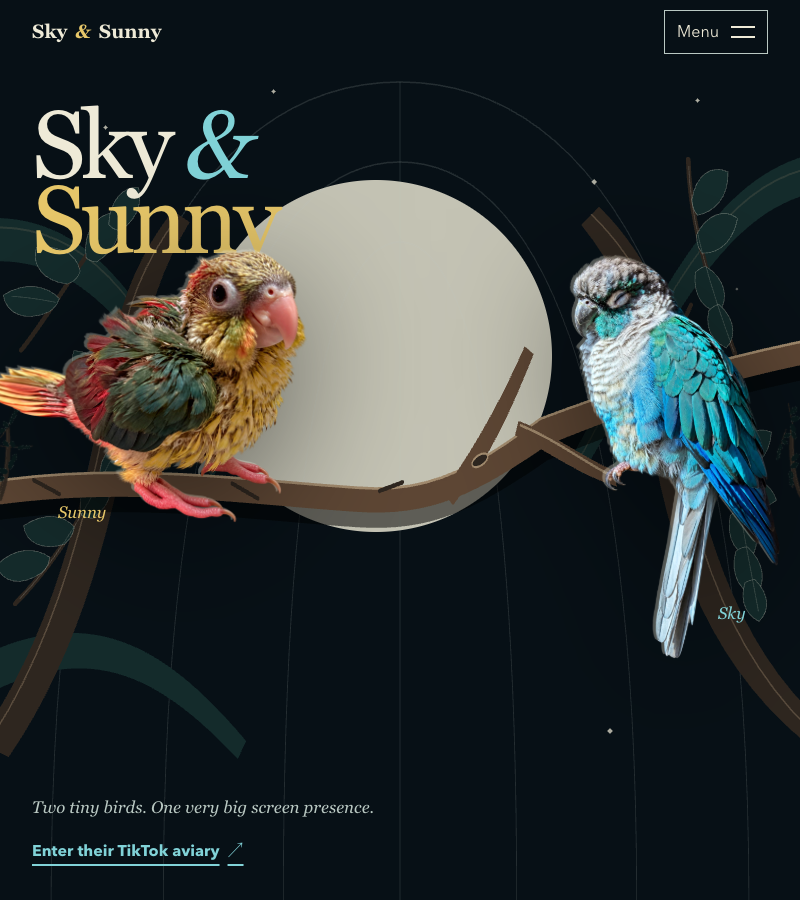
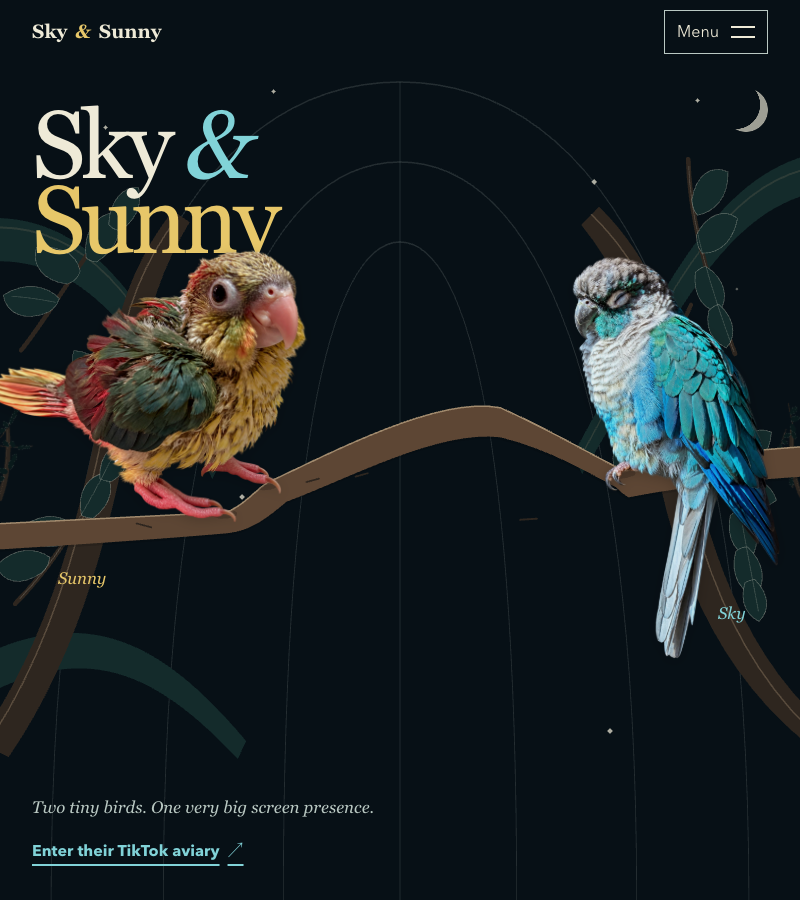
Hide the final hero support seam

diff --git a/index.html b/index.html
@@ -110,9 +110,12 @@
           <figure class="resident resident-sunny" data-face="sunny">
             <svg class="resident-support shared-perch" data-support-svg="sunny" viewBox="0 0 1366 1152" aria-hidden="true" focusable="false">
               <defs><clipPath id="sunny-support-clip" clipPathUnits="userSpaceOnUse"><path d="M-2200 1280C-1200 1200 -300 1160 980 1095C1040 1080 1100 1010 1150 975C1420 850 1850 620 2100 670C2300 760 2450 850 2600 926L2600 1010C2450 930 2300 840 2100 790C1850 760 1500 950 1230 1052C1160 1110 1090 1170 990 1180C300 1240 -900 1300 -2200 1380Z"></path></clipPath></defs>
-              <path class="support-shadow" transform="translate(-5 10)" d="M-2200 1280C-1200 1200 -300 1160 980 1095C1040 1080 1100 1010 1150 975C1420 850 1850 620 2100 670C2300 760 2450 850 2600 926L2600 1010C2450 930 2300 840 2100 790C1850 760 1500 950 1230 1052C1160 1110 1090 1170 990 1180C300 1240 -900 1300 -2200 1380Z"></path>
-              <path class="support-wood" data-shared-support="sunny" d="M-2200 1280C-1200 1200 -300 1160 980 1095C1040 1080 1100 1010 1150 975C1420 850 1850 620 2100 670C2300 760 2450 850 2600 926L2600 1010C2450 930 2300 840 2100 790C1850 760 1500 950 1230 1052C1160 1110 1090 1170 990 1180C300 1240 -900 1300 -2200 1380Z"></path>
-              <path class="support-boundary" data-support-contour="sunny" data-support-bird=".resident-sunny .resident-cutout" data-support-anchors="980,1095;1150,975" d="M-2200 1280C-1200 1200 -300 1160 980 1095C1040 1080 1100 1010 1150 975C1420 850 1850 620 2100 670C2300 760 2450 850 2600 926"></path>
+              <path class="support-shadow support-wide" transform="translate(-5 10)" d="M-2200 1280C-1200 1200 -300 1160 980 1095C1040 1080 1100 1010 1150 975C1420 850 1850 620 2100 670C2320 650 2580 640 2800 650C2580 690 2320 720 2100 740C1850 760 1500 950 1230 1052C1160 1110 1090 1170 990 1180C300 1240 -900 1300 -2200 1380Z"></path>
+              <path class="support-shadow support-intermediate" transform="translate(-5 10)" d="M-2200 1280C-1200 1200 -300 1160 980 1095C1040 1080 1100 1010 1150 975C1420 850 1850 620 2100 670C2300 760 2450 850 2600 926C2740 920 2890 900 3000 900C2860 940 2720 980 2600 1010C2450 930 2300 840 2100 790C1850 760 1500 950 1230 1052C1160 1110 1090 1170 990 1180C300 1240 -900 1300 -2200 1380Z"></path>
+              <path class="support-wood support-wide" data-shared-support="sunny" data-internal-terminal="2800,650" d="M-2200 1280C-1200 1200 -300 1160 980 1095C1040 1080 1100 1010 1150 975C1420 850 1850 620 2100 670C2320 650 2580 640 2800 650C2580 690 2320 720 2100 740C1850 760 1500 950 1230 1052C1160 1110 1090 1170 990 1180C300 1240 -900 1300 -2200 1380Z"></path>
+              <path class="support-wood support-intermediate" data-shared-support="sunny" data-internal-terminal="3000,900" d="M-2200 1280C-1200 1200 -300 1160 980 1095C1040 1080 1100 1010 1150 975C1420 850 1850 620 2100 670C2300 760 2450 850 2600 926C2740 920 2890 900 3000 900C2860 940 2720 980 2600 1010C2450 930 2300 840 2100 790C1850 760 1500 950 1230 1052C1160 1110 1090 1170 990 1180C300 1240 -900 1300 -2200 1380Z"></path>
+              <path class="support-boundary support-wide" data-support-contour="sunny" data-support-bird=".resident-sunny .resident-cutout" data-support-anchors="980,1095;1150,975" d="M-2200 1280C-1200 1200 -300 1160 980 1095C1040 1080 1100 1010 1150 975C1420 850 1850 620 2100 670C2320 650 2580 640 2800 650"></path>
+              <path class="support-boundary support-intermediate" data-support-contour="sunny" data-support-bird=".resident-sunny .resident-cutout" data-support-anchors="980,1095;1150,975" d="M-2200 1280C-1200 1200 -300 1160 980 1095C1040 1080 1100 1010 1150 975C1420 850 1850 620 2100 670C2300 760 2450 850 2600 926C2740 920 2890 900 3000 900"></path>
               <path class="support-contact-shadow" clip-path="url(#sunny-support-clip)" d="M934 1103Q974 1119 1018 1101M1110 990Q1148 1002 1190 982"></path>
               <path class="support-fissure" d="M620 1140L680 1156M1310 972L1362 958M1510 950L1560 936"></path>
             </svg>

diff --git a/sandbox/night-aviary/index.html b/sandbox/night-aviary/index.html
@@ -110,9 +110,12 @@
           <figure class="resident resident-sunny" data-face="sunny">
             <svg class="resident-support shared-perch" data-support-svg="sunny" viewBox="0 0 1366 1152" aria-hidden="true" focusable="false">
               <defs><clipPath id="sunny-support-clip" clipPathUnits="userSpaceOnUse"><path d="M-2200 1280C-1200 1200 -300 1160 980 1095C1040 1080 1100 1010 1150 975C1420 850 1850 620 2100 670C2300 760 2450 850 2600 926L2600 1010C2450 930 2300 840 2100 790C1850 760 1500 950 1230 1052C1160 1110 1090 1170 990 1180C300 1240 -900 1300 -2200 1380Z"></path></clipPath></defs>
-              <path class="support-shadow" transform="translate(-5 10)" d="M-2200 1280C-1200 1200 -300 1160 980 1095C1040 1080 1100 1010 1150 975C1420 850 1850 620 2100 670C2300 760 2450 850 2600 926L2600 1010C2450 930 2300 840 2100 790C1850 760 1500 950 1230 1052C1160 1110 1090 1170 990 1180C300 1240 -900 1300 -2200 1380Z"></path>
-              <path class="support-wood" data-shared-support="sunny" d="M-2200 1280C-1200 1200 -300 1160 980 1095C1040 1080 1100 1010 1150 975C1420 850 1850 620 2100 670C2300 760 2450 850 2600 926L2600 1010C2450 930 2300 840 2100 790C1850 760 1500 950 1230 1052C1160 1110 1090 1170 990 1180C300 1240 -900 1300 -2200 1380Z"></path>
-              <path class="support-boundary" data-support-contour="sunny" data-support-bird=".resident-sunny .resident-cutout" data-support-anchors="980,1095;1150,975" d="M-2200 1280C-1200 1200 -300 1160 980 1095C1040 1080 1100 1010 1150 975C1420 850 1850 620 2100 670C2300 760 2450 850 2600 926"></path>
+              <path class="support-shadow support-wide" transform="translate(-5 10)" d="M-2200 1280C-1200 1200 -300 1160 980 1095C1040 1080 1100 1010 1150 975C1420 850 1850 620 2100 670C2320 650 2580 640 2800 650C2580 690 2320 720 2100 740C1850 760 1500 950 1230 1052C1160 1110 1090 1170 990 1180C300 1240 -900 1300 -2200 1380Z"></path>
+              <path class="support-shadow support-intermediate" transform="translate(-5 10)" d="M-2200 1280C-1200 1200 -300 1160 980 1095C1040 1080 1100 1010 1150 975C1420 850 1850 620 2100 670C2300 760 2450 850 2600 926C2740 920 2890 900 3000 900C2860 940 2720 980 2600 1010C2450 930 2300 840 2100 790C1850 760 1500 950 1230 1052C1160 1110 1090 1170 990 1180C300 1240 -900 1300 -2200 1380Z"></path>
+              <path class="support-wood support-wide" data-shared-support="sunny" data-internal-terminal="2800,650" d="M-2200 1280C-1200 1200 -300 1160 980 1095C1040 1080 1100 1010 1150 975C1420 850 1850 620 2100 670C2320 650 2580 640 2800 650C2580 690 2320 720 2100 740C1850 760 1500 950 1230 1052C1160 1110 1090 1170 990 1180C300 1240 -900 1300 -2200 1380Z"></path>
+              <path class="support-wood support-intermediate" data-shared-support="sunny" data-internal-terminal="3000,900" d="M-2200 1280C-1200 1200 -300 1160 980 1095C1040 1080 1100 1010 1150 975C1420 850 1850 620 2100 670C2300 760 2450 850 2600 926C2740 920 2890 900 3000 900C2860 940 2720 980 2600 1010C2450 930 2300 840 2100 790C1850 760 1500 950 1230 1052C1160 1110 1090 1170 990 1180C300 1240 -900 1300 -2200 1380Z"></path>
+              <path class="support-boundary support-wide" data-support-contour="sunny" data-support-bird=".resident-sunny .resident-cutout" data-support-anchors="980,1095;1150,975" d="M-2200 1280C-1200 1200 -300 1160 980 1095C1040 1080 1100 1010 1150 975C1420 850 1850 620 2100 670C2320 650 2580 640 2800 650"></path>
+              <path class="support-boundary support-intermediate" data-support-contour="sunny" data-support-bird=".resident-sunny .resident-cutout" data-support-anchors="980,1095;1150,975" d="M-2200 1280C-1200 1200 -300 1160 980 1095C1040 1080 1100 1010 1150 975C1420 850 1850 620 2100 670C2300 760 2450 850 2600 926C2740 920 2890 900 3000 900"></path>
               <path class="support-contact-shadow" clip-path="url(#sunny-support-clip)" d="M934 1103Q974 1119 1018 1101M1110 990Q1148 1002 1190 982"></path>
               <path class="support-fissure" d="M620 1140L680 1156M1310 972L1362 958M1510 950L1560 936"></path>
             </svg>

diff --git a/styles.css b/styles.css
@@ -514,6 +514,10 @@ h1 i {
   fill: var(--color-bark);
 }
 
+.support-intermediate {
+  display: none;
+}
+
 .support-boundary {
   fill: none;
   stroke: var(--color-bark-edge);
@@ -1065,6 +1069,16 @@ h3 {
     top: 28%;
     right: 0;
     width: clamp(10rem, 40vw, 17rem);
+  }
+
+  @media (min-width: 25.0625rem) {
+    .resident-sunny .support-wide {
+      display: none;
+    }
+
+    .resident-sunny .support-intermediate {
+      display: block;
+    }
   }
 
   .resident figcaption {
